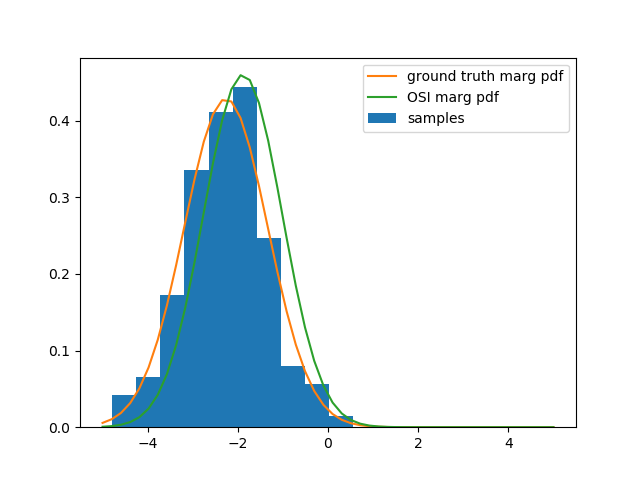
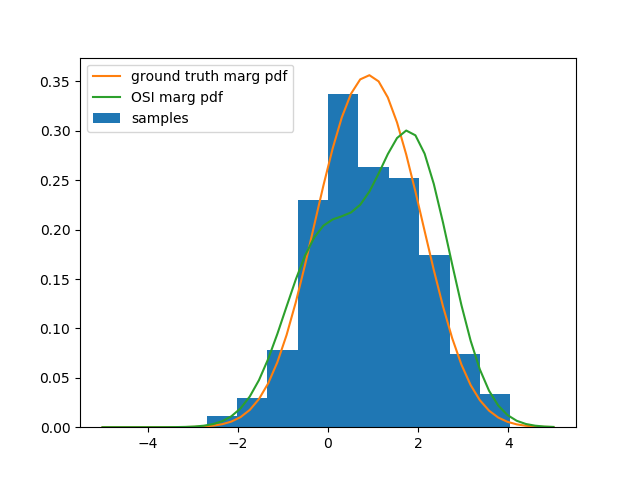
slightly multi-modal now

diff --git a/osi/hybrid_mln_test_0.py b/osi/hybrid_mln_test_0.py
@@ -34,11 +34,12 @@ means = np.array([[-2., -2.], [0., 1.], [3., 0.]])
 #            ]
 
 factors = [F(nb=(rvs[0], rvs[2], rvs[3]),
-             potential=MLNPotential(lambda x: (1 - x[0]) * eq_op(x[1], 4.) + x[0] * eq_op(x[1], x[2]), w=0.2)),
+             # potential=MLNPotential(lambda x: (1 - x[0]) * eq_op(x[1], 4.) + x[0] * eq_op(x[1], x[2]), w=0.2)),
+             potential=MLNPotential(lambda x: (1 - x[0]) * eq_op(x[1], 4.) + x[0] * eq_op(x[1], -3.), w=0.2)),
            # F(nb=(rvs[0], rvs[1]), potential=MLNPotential(lambda x: imp_op(x[0] * x[1], x[2]), w=1)),
            F(nb=(rvs[0], rvs[1]), potential=MLNPotential(lambda x: and_op(x[0], x[1]), w=1)),
            # F(nb=(rvs[2],), potential=QuadraticPotential(A=-0.5 * np.ones([1, 1]), b=np.zeros([1]), c=0.))
-           F(nb=(rvs[2], rvs[3]), potential=QuadraticPotential(A=-0.5 * np.eye(2), b=np.array([-3., 2.]), c=0.))
+           F(nb=(rvs[2], rvs[3]), potential=QuadraticPotential(A=-0.5 * np.eye(2), b=np.array([1., 2.]), c=0.))
            # ensure normalizability
            ]
 
@@ -83,9 +84,9 @@ for i, rv in enumerate(rvs):
 # manual conversion here:
 factors[0].potential = HybridQuadraticPotential(
     A=factors[0].potential.w * -0.5 *
-      np.array([np.array([[1., 0], [0, 0]]), np.array([[1., -1.], [-1., 1.]])]),
-    b=factors[0].potential.w * -0.5 * np.array([[-8., 0], [0., 0.]]),  # 2 is b/c there's 2 cont nodes
-    c=factors[0].potential.w * -0.5 * np.array([16., 0.])
+      np.array([np.array([[1., 0], [0, 0]]), np.array([[1., 0.], [0., 0.]])]),
+    b=factors[0].potential.w * -0.5 * np.array([[-8., 0], [6., 0.]]),
+    c=factors[0].potential.w * -0.5 * np.array([16., 9.])
 )
 factors[1].potential = utils.convert_disc_MLNPotential_to_TablePotential(factors[1].potential, factors[1].nb)
 utils.set_log_potential_funs(factors, skip_existing=False)  # reset lpot_funs
